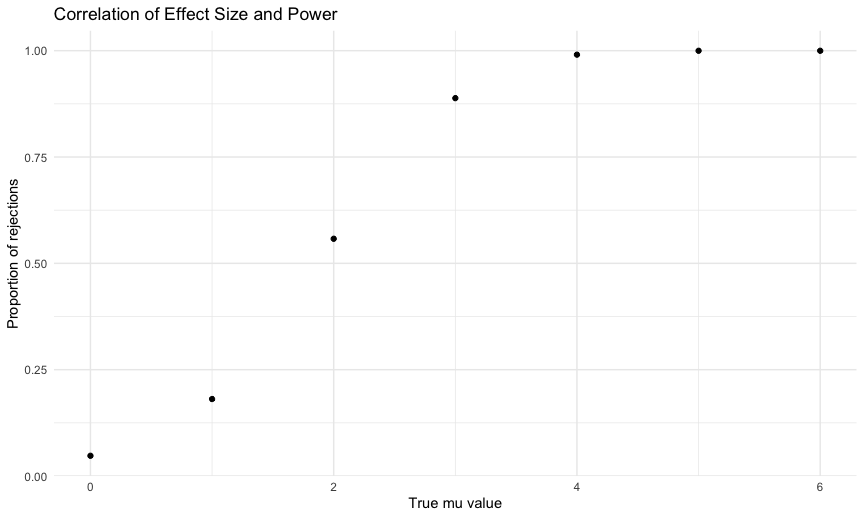
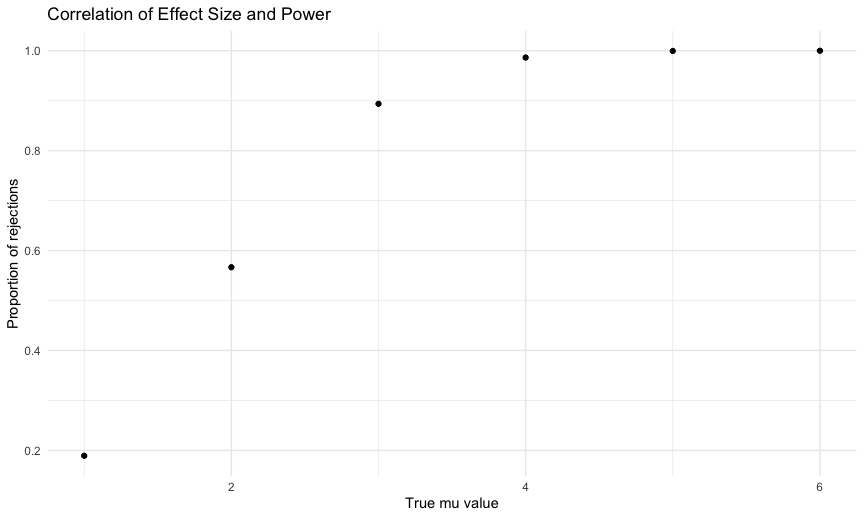
Updated graphs to problem 3, and added responses to the questions for problem 3

diff --git a/p8105_hw5_cjd2195.md b/p8105_hw5_cjd2195.md
@@ -192,17 +192,10 @@ calculate_unsolved_prob |>
 
 ## Problem 2
 
-Create a tidy dataframe containing data from all participants, including
-the subject ID, arm, and observations over time:
-
-Start with a dataframe containing all file names; the list.files
-function will help Iterate over file names and read in data for each
-subject using purrr::map and saving the result as a new variable in the
-dataframe Tidy the result; manipulate file names to include control arm
-and subject ID, make sure weekly observations are “tidy”, and do any
-other tidying that’s necessary Make a spaghetti plot showing
-observations on each subject over time, and comment on differences
-between groups.
+First I need to load my data. In my case, I saved the Problem 1 dataset
+to the same “data” folder that I’m using for problem 2, which explains
+these first few lines of my code where I need to drop this file from the
+list I’m trying to consider.
 
 ``` r
 files_list = list.files("data")[-21]
@@ -434,16 +427,16 @@ normal_distribution_df |>
     ## # A tibble: 5,000 × 4
     ##    output_datasets estimate p.value reject_the_null
     ##    <list>             <dbl>   <dbl> <chr>          
-    ##  1 <dbl [30]>        -1.52   0.0861 fail to reject 
-    ##  2 <dbl [30]>        -0.863  0.427  fail to reject 
-    ##  3 <dbl [30]>        -2.08   0.0384 reject         
-    ##  4 <dbl [30]>        -0.682  0.533  fail to reject 
-    ##  5 <dbl [30]>         0.866  0.345  fail to reject 
-    ##  6 <dbl [30]>         0.389  0.658  fail to reject 
-    ##  7 <dbl [30]>         0.912  0.263  fail to reject 
-    ##  8 <dbl [30]>        -0.176  0.855  fail to reject 
-    ##  9 <dbl [30]>         0.868  0.255  fail to reject 
-    ## 10 <dbl [30]>         0.340  0.684  fail to reject 
+    ##  1 <dbl [30]>        0.0581  0.962  fail to reject 
+    ##  2 <dbl [30]>        0.820   0.336  fail to reject 
+    ##  3 <dbl [30]>       -0.0156  0.987  fail to reject 
+    ##  4 <dbl [30]>       -0.0459  0.945  fail to reject 
+    ##  5 <dbl [30]>       -1.20    0.225  fail to reject 
+    ##  6 <dbl [30]>        0.764   0.305  fail to reject 
+    ##  7 <dbl [30]>       -0.909   0.354  fail to reject 
+    ##  8 <dbl [30]>       -1.81    0.0691 fail to reject 
+    ##  9 <dbl [30]>        0.904   0.328  fail to reject 
+    ## 10 <dbl [30]>        0.0752  0.927  fail to reject 
     ## # ℹ 4,990 more rows
 
 Ok, now I can start to consider how I want to store my data to run these
@@ -452,7 +445,7 @@ trials across all different values of `mu`.
 ``` r
 normal_dist_ttest_sim_df = 
   expand_grid(
-    mu = c(0:6),
+    mu = c(1:6),
     iter = 1:5000
   ) |> 
   mutate(output_dataset = map(mu, \(x) rnorm(n = n, mean = x, sd = sigma))) |> 
@@ -480,6 +473,13 @@ normal_dist_ttest_sim_df |>
 
 <img src="p8105_hw5_cjd2195_files/figure-gfm/unnamed-chunk-8-1.png" width="90%" />
 
+The above graph demonstrates the principle that as the effect size we
+are looking to detect increases, the power of our test also increases.
+When the true `mu` was 1 and the null hypothesis `mu` was 0, we had very
+few instances in which we rejected the null hypothesis, compared to when
+our true `mu` was 6 and the null hypothesis `mu` was 0 in which every
+test resulted in rejecting the null.
+
 ``` r
 normal_dist_ttest_sim_df |> 
   group_by(mu) |> 
@@ -491,7 +491,7 @@ normal_dist_ttest_sim_df |>
        y = "Average sample mu")
 ```
 
-<img src="p8105_hw5_cjd2195_files/figure-gfm/unnamed-chunk-8-2.png" width="90%" />
+<img src="p8105_hw5_cjd2195_files/figure-gfm/unnamed-chunk-9-1.png" width="90%" />
 
 ``` r
 normal_dist_ttest_sim_df |> 
@@ -505,4 +505,18 @@ normal_dist_ttest_sim_df |>
        y = "Average sample mu")
 ```
 
-<img src="p8105_hw5_cjd2195_files/figure-gfm/unnamed-chunk-8-3.png" width="90%" />
+<img src="p8105_hw5_cjd2195_files/figure-gfm/unnamed-chunk-9-2.png" width="90%" />
+
+The above graphs demonstrate the notion that, fundamentally, the samples
+which result in us being able to reject the null hypothesis
+fundamentally have a different average mu hat than those samples for
+which we do not ultimately reject the null hypothesis. This makes sense-
+our hypothesis test is essentially asking whether we can believe that
+our data come from some prespecified null distribution (in our case,
+this was always a Normal distribution with mu = 0), and we reject the
+null when we have enough evidence that these data are likely coming from
+a different distribution. To oversimplify, we wanted to see if our data
+were “extreme” enough to reject the null. When we look at the averages
+of only those samples where we’ve essentially said “Yes, these are some
+extreme data”, they are going to be skewed compared to the averages of
+ALL the samples that we generated.
